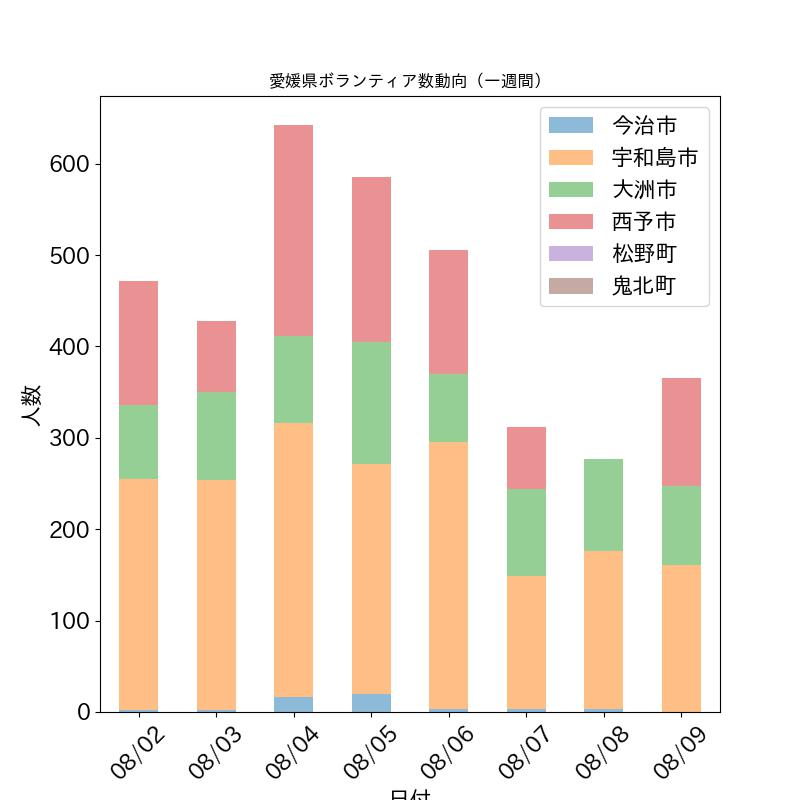
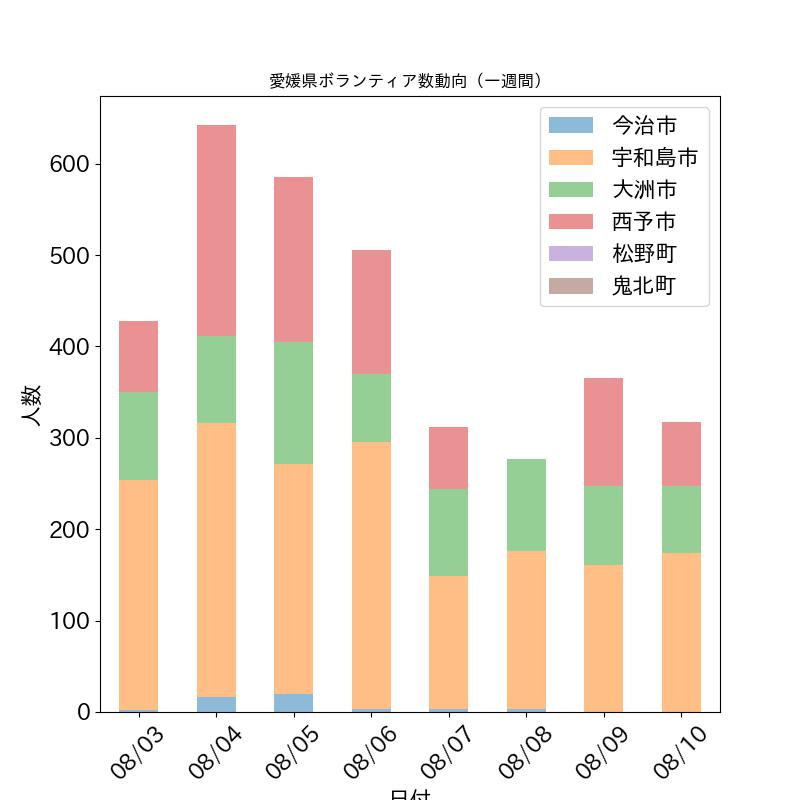
8/10版の動向追加

diff --git a/_pages/volunteer_aggregation.md b/_pages/volunteer_aggregation.md
@@ -1,15 +1,18 @@
 ---
-title: 【8/9版 愛媛県ボランティア数動向】
+title: 【8/10版 愛媛県ボランティア数動向】
 description: 松山市社協、八幡浜市社協、愛媛災害支援センターが公開しているデータを元に、ボランティア数のグラフを作成・公開しています。
 permalink: /volunteer/aggregation/
 date: 2018-07-18 05:59:06 +0900
-last_modified_at: 2018-08-09 20:59:22 +0900
+last_modified_at: 2018-08-11 00:47:41 +0900
+header:
+  overlay_image: /assets/images/volunteer_count.png
+  overlay_filter: 0.5
 sidebar:
-  nav: volunteer_menu
+  nav: volunteer-new
 
 ---
 
-## 【8/9から過去一週間分データ更新】
+## 【8/10から過去一週間分データ更新】
 
 各社協、ボランティアセンターが公開している情報を元に、愛媛県内のボランティア数の一覧とグラフを公開しています。データ数が増えてきたので過去８日以内の表示にしています。8/5までデータは[こちら](https://docs.google.com/spreadsheets/d/1h-GFHoNa55P96wu_HNbPk899eN4HZcnu1T9q4eag8Uc/edit#gid=0)にあります。 現在は[愛媛県災害ボランティア特設サイト](https://ehimesvc.jp/)から直接取得しています。 [^1]
 
@@ -21,31 +24,27 @@ sidebar:
 
 平日の募集は300人、個人は四国圏内からの募集となっています。
 
- ![宇和島ボラ数（募集と実績）](/assets/images/volunteer_headcount/宇和島市_volunteer_headcount_diff_20180809.png)
+ ![宇和島ボラ数（募集と実績）](/assets/images/volunteer_headcount/宇和島市_volunteer_headcount_diff_20180810.png)
 
 ### 大洲市
 
 平日の募集は100〜150人で、県内限定の募集となっています。
 
- ![大洲市ボラ数（募集と実績）](/assets/images/volunteer_headcount/大洲市_volunteer_headcount_diff_20180809.png)
+ ![大洲市ボラ数（募集と実績）](/assets/images/volunteer_headcount/大洲市_volunteer_headcount_diff_20180810.png)
 
 ### 西予市
 
 ニーズの数に合わせてボランティア募集数も変動するようになりました。全国から募集しています。
 
- ![西予市ボラ数（募集と実績）](/assets/images/volunteer_headcount/西予市_volunteer_headcount_diff_20180809.png)
+ ![西予市ボラ数（募集と実績）](/assets/images/volunteer_headcount/西予市_volunteer_headcount_diff_20180810.png)
 
-### まとめ
-
-
-## 傾向
+## 前日・前週からの変化
 
 エリア | 前日比 | 前週同日比
 ---------|----------|---------
- 宇和島市 | :arrow_lower_right:-12.0 | :arrow_lower_right:-92.0
- 大洲市  | :arrow_lower_right:-15.0 | :arrow_upper_right:5.0
- 西予市  | :arrow_upper_right:118.0 | :arrow_lower_right:-18.0
-
+宇和島市 | :arrow_upper_right:13.0 | :arrow_lower_right:-78.0
+大洲市 | :arrow_lower_right:-13.0 | :arrow_lower_right:-23.0
+西予市 | :arrow_lower_right:-48.0 | :arrow_lower_right:-8.0
 
 
 暑い日が続きますが、ボランティア時に気をつける[熱中症対策のイラストリーフレット](https://cheerup-ehime.github.io/volunteer/heatstroke-illustrated/)を作成しましたので、是非ご活用ください。（https://cheerup-ehime.github.io/volunteer/heatstroke-illustrated/）
@@ -59,7 +58,6 @@ sidebar:
 
 | 日付   |   今治市 |   宇和島市 |   大洲市 |   西予市 |   松野町 |   鬼北町 |
 |:-------|---------:|-----------:|---------:|---------:|---------:|---------:|
-| 08/02  |        2 |        253 |       81 |      136 |        0 |        0 |
 | 08/03  |        2 |        252 |       96 |       78 |        0 |        0 |
 | 08/04  |       16 |        300 |       95 |      231 |        0 |        0 |
 | 08/05  |       20 |        251 |      134 |      180 |        0 |        0 |
@@ -67,6 +65,7 @@ sidebar:
 | 08/07  |        3 |        146 |       95 |       68 |        0 |        0 |
 | 08/08  |        3 |        173 |      101 |        0 |        0 |        0 |
 | 08/09  |        0 |        161 |       86 |      118 |        0 |        0 |
+| 08/10  |        0 |        174 |       73 |       70 |        0 |        0 |
 
 ## 【週毎のボランティア数動向】
 
@@ -78,7 +77,7 @@ sidebar:
 | 07/22週 |      484 |       1902 |     2044 |     2011 |      164 |       53 |
 | 07/29週 |       87 |       1546 |      976 |     1036 |       26 |        0 |
 | 08/05週 |       43 |       1446 |      689 |      700 |        0 |        0 |
-| 08/12週 |        9 |        773 |      356 |      322 |        0 |        0 |
+| 08/12週 |        9 |        947 |      429 |      392 |        0 |        0 |
 
 ### 元データ
 

diff --git a/_posts/2018-08-10-volunteer-aggregation-0810.md b/_posts/2018-08-10-volunteer-aggregation-0810.md
@@ -1,0 +1,24 @@
+---
+title: 【8/10版 愛媛県ボランティア数動向を公開しました】
+description: 松山市社協、八幡浜市社協、愛媛災害支援センターが公開しているデータを元に、ボランティア数のグラフを毎日作成・公開しています。
+date: 2018-08-10 18:46:25 +0900
+last_modified_at: 2018-08-11 00:46:475 +0900
+category: ボランティア
+tag:
+  - ボランティア動向
+header:
+  overlay_image: /assets/images/volunteer_count.png
+  overlay_filter: 0.5
+sidemenu:
+    nav: posts-menu
+---
+
+【8/10】版の、愛媛県ボランティア数動向を公開しました。
+
+![日次グラフ](/assets/images/volunteer_count.png)
+
+![週次グラフ](/assets/images/volunteer_count_week.png)
+
+前日・前週との比較、募集と実績の比較など、詳しくは以下のページで御覧ください。
+
+**情報元**:[/volunteer/aggregation/](/volunteer/aggregation/)
